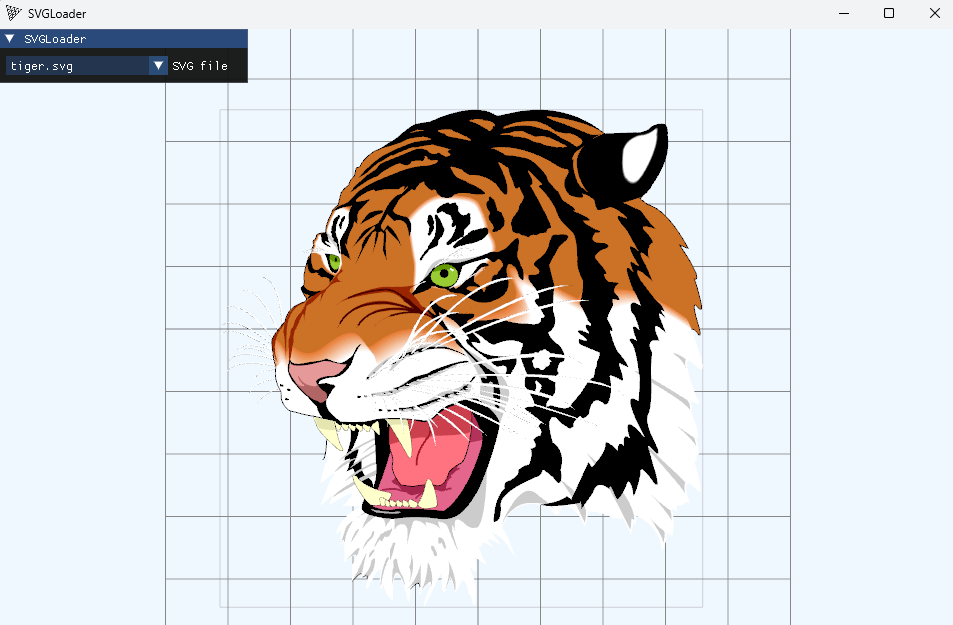
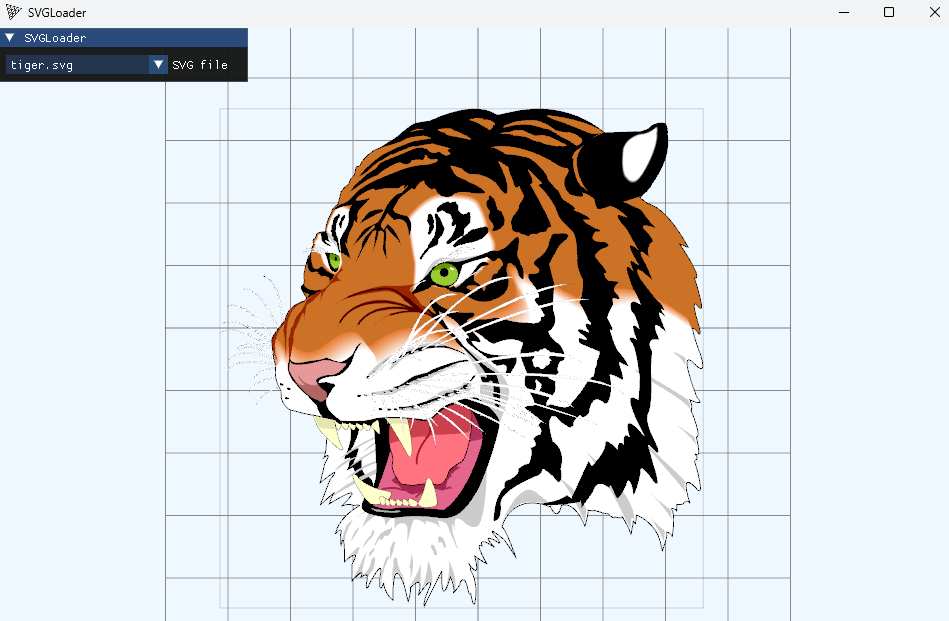
Update README.md

diff --git a/README.md b/README.md
@@ -251,21 +251,22 @@ set_languages("c++20")
 ```
 
 
-
-
 ### Screenshots
 ![Fonts](doc/screenshots/fonts.png)
+![Ocean](doc/screenshots/pt_ocean.png)
 ![Spline Editor](doc/screenshots/spline_editor.png)
 ![colnav](doc/screenshots/colnav.png)
 ![Shadows](doc/screenshots/Shadows.PNG)
 ![Crane](doc/screenshots/crane.png)
 ![FlyControls](doc/screenshots/fly.PNG)
 ![Optimization](doc/screenshots/Optimization.PNG)
-![Lidar](doc/screenshots/lidar.png)
+![Bistro](doc/screenshots/bistro.PNG)
 ![Animation](doc/screenshots/animation.png)
+![Lidar](doc/screenshots/lidar.png)
 ![Water+sky](doc/screenshots/water_sky.png)
 ![MotorController](doc/screenshots/motor_controller.PNG)
 ![SVG](doc/screenshots/tiger_svg.png)
 ![Depth sensor](doc/screenshots/depth_sensor.png)
 ![LeePerrySmith](doc/screenshots/LeePerrySmith.png)
-![Cubemap](doc/screenshots/cubemap.png)
+![Chess](doc/screenshots/chess.png)
+